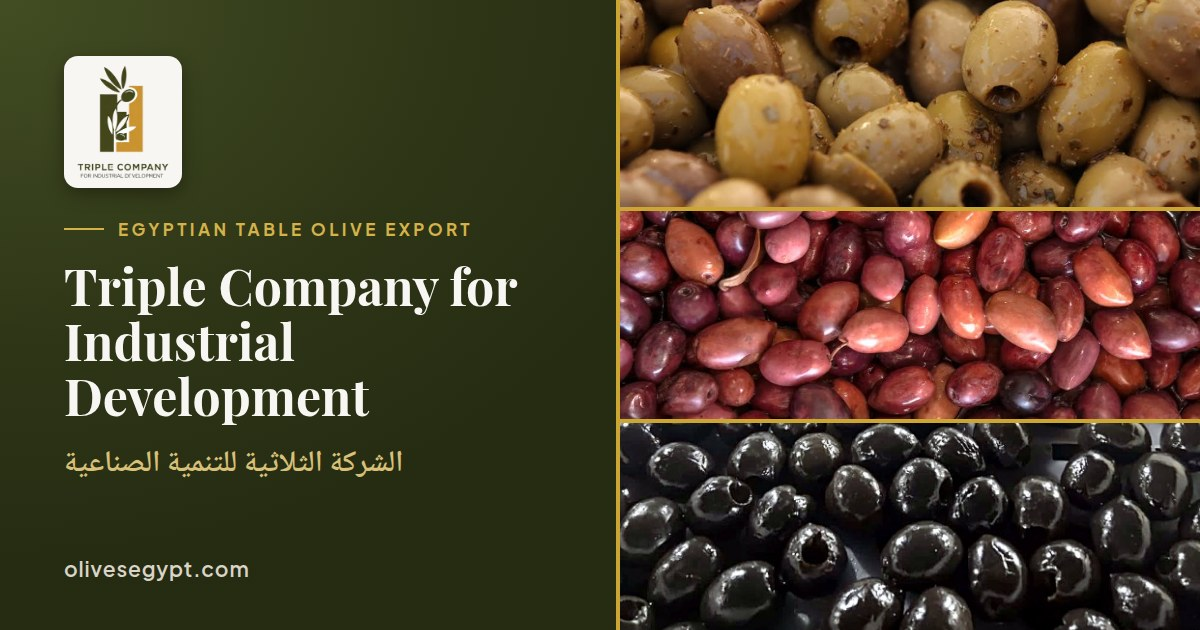
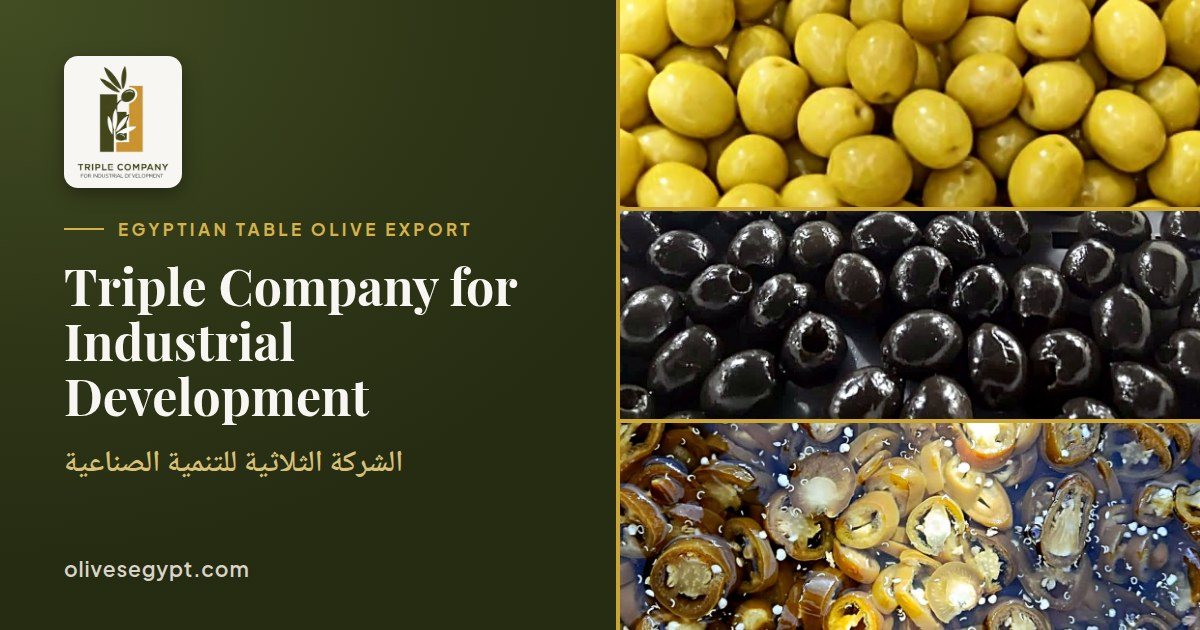
Share card: use the owner's green olives, oxidized black and jalapeño photographs
Claude-Session: https://claude.ai/code/session_0188gGy6VLt5LozVasLa9K5U

diff --git a/scripts/og-card.html b/scripts/og-card.html
@@ -1,7 +1,7 @@
 <!doctype html>
 <!-- Source of /opengraph.jpg (1200x630). Render: serve the repo root (python3 -m http.server 8899),
      open http://localhost:8899/scripts/og-card.html in Chromium at a 1200x630 viewport, screenshot,
-     save as JPEG quality 88. Text is limited to approved strings: legal name (EN/AR), the C-91 tagline, the domain. -->
+     save as JPEG quality 88. The green-olive photograph lives beside this file (it is not on the site). Text is limited to approved strings: legal name (EN/AR), the C-91 tagline, the domain. -->
 <html><head><meta charset="utf-8">
 <link rel="stylesheet" href="/assets/fonts/fonts.css">
 <style>
@@ -28,7 +28,7 @@ h1{margin-top:18px;font-family:'Playfair Display',serif;font-weight:700;color:hs
   <div class="url">olivesegypt.com</div>
 </div>
 <div class="r">
-  <div style="background-image:url(/assets/olive-aggizi-BuhWRZTd.jpg)"></div>
-  <div style="background-image:url(/assets/olive-kalamata.jpg)"></div>
+  <div style="background-image:url(/scripts/og-card-green-olives.jpg)"></div>
   <div style="background-image:url(/assets/olive-oxidized-black.jpg)"></div>
+  <div style="background-image:url(/assets/jalapeno-sliced.jpg)"></div>
 </div></body></html>

diff --git a/ar/index.html b/ar/index.html
@@ -35,7 +35,7 @@
     <meta property="og:image" content="https://olivesegypt.com/opengraph.jpg" />
     <meta property="og:image:width" content="1200" />
     <meta property="og:image:height" content="630" />
-    <meta property="og:image:alt" content="الشركة الثلاثية للتنمية الصناعية: الشعار والاسم وتصدير زيتون المائدة المصري، مع زيتون أخضر وكالاماتا وأسود" />
+    <meta property="og:image:alt" content="الشركة الثلاثية للتنمية الصناعية: الشعار والاسم وتصدير زيتون المائدة المصري، مع زيتون أخضر وزيتون أسود وفلفل هالبينو مقطع" />
     <meta property="og:locale" content="ar_EG" />
     <meta property="og:locale:alternate" content="en_US" />
     <meta name="description" content="زيتون مائدة مصري للتصدير بالجملة، لتجار التجزئة، وخدمات الأغذية، وبالعلامة التجارية الخاصة. تعرف على منتجاتنا المعتمدة ومواصفاتها وخيارات التغليف والعينات ودعم عروض الأسعار." />

diff --git a/index.html b/index.html
@@ -32,7 +32,7 @@
     <meta property="og:site_name" content="Triple Company for Industrial Development" />
     <meta property="og:image:width" content="1200" />
     <meta property="og:image:height" content="630" />
-    <meta property="og:image:alt" content="Triple Company for Industrial Development: logo, name and Egyptian table olive export, with green, Kalamata and black olives" />
+    <meta property="og:image:alt" content="Triple Company for Industrial Development: logo, name and Egyptian table olive export, with green olives, black olives and sliced jalapeño" />
     <meta property="og:locale" content="en_US" />
     <meta property="og:locale:alternate" content="ar_EG" />
 <!-- Fonts -->

diff --git a/resources/certifications/index.html b/resources/certifications/index.html
@@ -22,7 +22,7 @@
     <meta property="og:site_name" content="Triple Company for Industrial Development" />
     <meta property="og:image:width" content="1200" />
     <meta property="og:image:height" content="630" />
-    <meta property="og:image:alt" content="Triple Company for Industrial Development: logo, name and Egyptian table olive export, with green, Kalamata and black olives" />
+    <meta property="og:image:alt" content="Triple Company for Industrial Development: logo, name and Egyptian table olive export, with green olives, black olives and sliced jalapeño" />
     <meta property="og:locale" content="en_US" />
     <script>
       (function () {

diff --git a/resources/export-markets/index.html b/resources/export-markets/index.html
@@ -22,7 +22,7 @@
     <meta property="og:site_name" content="Triple Company for Industrial Development" />
     <meta property="og:image:width" content="1200" />
     <meta property="og:image:height" content="630" />
-    <meta property="og:image:alt" content="Triple Company for Industrial Development: logo, name and Egyptian table olive export, with green, Kalamata and black olives" />
+    <meta property="og:image:alt" content="Triple Company for Industrial Development: logo, name and Egyptian table olive export, with green olives, black olives and sliced jalapeño" />
     <meta property="og:locale" content="en_US" />
     <script>
       (function () {

diff --git a/resources/faq/index.html b/resources/faq/index.html
@@ -22,7 +22,7 @@
     <meta property="og:site_name" content="Triple Company for Industrial Development" />
     <meta property="og:image:width" content="1200" />
     <meta property="og:image:height" content="630" />
-    <meta property="og:image:alt" content="Triple Company for Industrial Development: logo, name and Egyptian table olive export, with green, Kalamata and black olives" />
+    <meta property="og:image:alt" content="Triple Company for Industrial Development: logo, name and Egyptian table olive export, with green olives, black olives and sliced jalapeño" />
     <meta property="og:locale" content="en_US" />
     <script>
       (function () {

diff --git a/resources/index.html b/resources/index.html
@@ -22,7 +22,7 @@
     <meta property="og:site_name" content="Triple Company for Industrial Development" />
     <meta property="og:image:width" content="1200" />
     <meta property="og:image:height" content="630" />
-    <meta property="og:image:alt" content="Triple Company for Industrial Development: logo, name and Egyptian table olive export, with green, Kalamata and black olives" />
+    <meta property="og:image:alt" content="Triple Company for Industrial Development: logo, name and Egyptian table olive export, with green olives, black olives and sliced jalapeño" />
     <meta property="og:locale" content="en_US" />
     <script>
       (function () {

diff --git a/resources/packaging/index.html b/resources/packaging/index.html
@@ -22,7 +22,7 @@
     <meta property="og:site_name" content="Triple Company for Industrial Development" />
     <meta property="og:image:width" content="1200" />
     <meta property="og:image:height" content="630" />
-    <meta property="og:image:alt" content="Triple Company for Industrial Development: logo, name and Egyptian table olive export, with green, Kalamata and black olives" />
+    <meta property="og:image:alt" content="Triple Company for Industrial Development: logo, name and Egyptian table olive export, with green olives, black olives and sliced jalapeño" />
     <meta property="og:locale" content="en_US" />
     <script>
       (function () {

diff --git a/resources/pricing/index.html b/resources/pricing/index.html
@@ -22,7 +22,7 @@
     <meta property="og:site_name" content="Triple Company for Industrial Development" />
     <meta property="og:image:width" content="1200" />
     <meta property="og:image:height" content="630" />
-    <meta property="og:image:alt" content="Triple Company for Industrial Development: logo, name and Egyptian table olive export, with green, Kalamata and black olives" />
+    <meta property="og:image:alt" content="Triple Company for Industrial Development: logo, name and Egyptian table olive export, with green olives, black olives and sliced jalapeño" />
     <meta property="og:locale" content="en_US" />
     <script>
       (function () {

diff --git a/resources/private-label/index.html b/resources/private-label/index.html
@@ -23,7 +23,7 @@
     <meta property="og:site_name" content="Triple Company for Industrial Development" />
     <meta property="og:image:width" content="1200" />
     <meta property="og:image:height" content="630" />
-    <meta property="og:image:alt" content="Triple Company for Industrial Development: logo, name and Egyptian table olive export, with green, Kalamata and black olives" />
+    <meta property="og:image:alt" content="Triple Company for Industrial Development: logo, name and Egyptian table olive export, with green olives, black olives and sliced jalapeño" />
     <meta property="og:locale" content="en_US" />
     <script>
       (function () {

diff --git a/resources/supply-network/index.html b/resources/supply-network/index.html
@@ -22,7 +22,7 @@
     <meta property="og:site_name" content="Triple Company for Industrial Development" />
     <meta property="og:image:width" content="1200" />
     <meta property="og:image:height" content="630" />
-    <meta property="og:image:alt" content="Triple Company for Industrial Development: logo, name and Egyptian table olive export, with green, Kalamata and black olives" />
+    <meta property="og:image:alt" content="Triple Company for Industrial Development: logo, name and Egyptian table olive export, with green olives, black olives and sliced jalapeño" />
     <meta property="og:locale" content="en_US" />
     <script>
       (function () {

diff --git a/resources/why-egyptian-olives/index.html b/resources/why-egyptian-olives/index.html
@@ -22,7 +22,7 @@
     <meta property="og:site_name" content="Triple Company for Industrial Development" />
     <meta property="og:image:width" content="1200" />
     <meta property="og:image:height" content="630" />
-    <meta property="og:image:alt" content="Triple Company for Industrial Development: logo, name and Egyptian table olive export, with green, Kalamata and black olives" />
+    <meta property="og:image:alt" content="Triple Company for Industrial Development: logo, name and Egyptian table olive export, with green olives, black olives and sliced jalapeño" />
     <meta property="og:locale" content="en_US" />
     <script>
       (function () {
